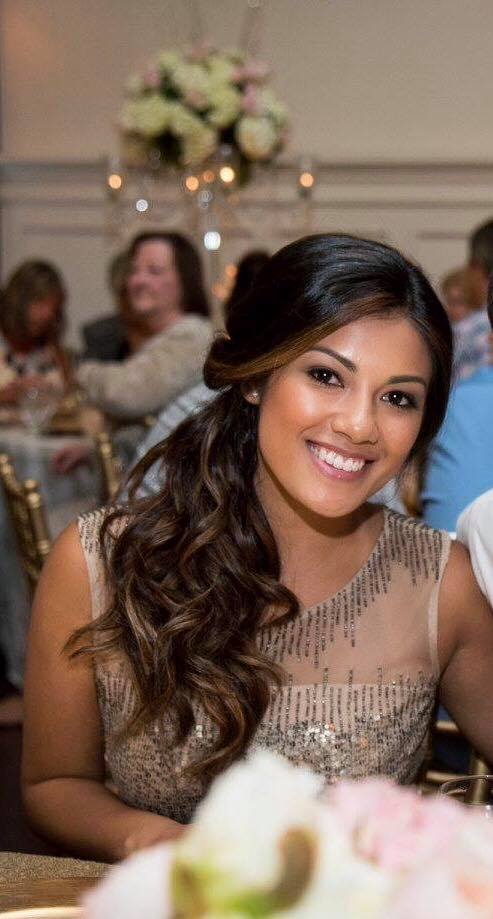
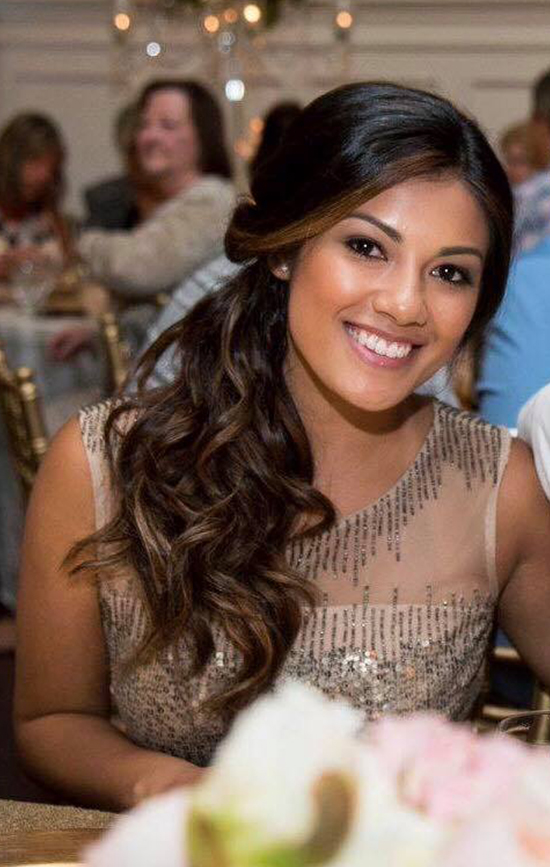
update style

diff --git a/partials/theparty.html b/partials/theparty.html
@@ -6,7 +6,7 @@
 
     <div class="row wedding-party">
       <div class="col-sm-6 col-xs-6 feature col-md-3">
-        <img alt="Photo" src="img/tall2.jpg">
+        <img alt="Photo" src="img/desi.jpg">
         <h6>Maid of Honor</h6>
         <h6>Desiree Durban</h6>
         <p>
@@ -16,7 +16,7 @@
       </div>
 
       <div class="col-sm-6 col-xs-6 feature col-md-3">
-        <img alt="Photo" src="img/tall2.jpg">
+        <img alt="Photo" src="img/tahlia.jpg">
         <h6>Matron of Honor</h6>
         <h6>TAHLIA NANPEI</h6>
         <p>
@@ -24,13 +24,13 @@
           Relationship Status: Just Married
         </p>
       </div><div class="col-sm-6 col-xs-6 feature col-md-3">
-        <img alt="Photo" src="img/tall2.jpg">
+        <img alt="Photo" src="img/sabrina.jpg">
         <h6>Bridesmaid</h6>
         <h6>SABRINA NGUYEN</h6>
         <p>Relation: Bride's friend since 7th grade<br/>
           Relationship Status: Finally engaged</p>
       </div><div class="col-sm-6 col-xs-6 feature col-md-3">
-        <img alt="Photo" src="img/tall2.jpg">
+        <img alt="Photo" src="img/zoe.jpg">
         <h6>Bridesmaid</h6>
         <h6>ZOE FERNYHOUGH</h6>
         <p>
@@ -44,9 +44,9 @@
 
     <div class="row wedding-party">
       <div class="col-sm-6 col-xs-6 feature col-md-3">
-        <img alt="Photo" src="img/tall1.jpg">
-        <h6>Maid of Honor</h6>
-        <h6>Desiree Durban</h6>
+        <img alt="Photo" src="img/Andrew.jpg">
+        <h6>Best Man</h6>
+        <h6>Andrew Elder</h6>
         <p>
           Relation: Bride's Older Sister<br />
           Relationship Status: TBD
@@ -54,23 +54,23 @@
       </div>
 
       <div class="col-sm-6 col-xs-6 feature col-md-3">
-        <img alt="Photo" src="img/tall1.jpg">
-        <h6>Matron of Honor</h6>
-        <h6>TAHLIA NANPEI</h6>
+        <img alt="Photo" src="img/Max.jpg">
+        <h6>Groomsman</h6>
+        <h6>Max Wisman</h6>
         <p>
           Relation: Bride's friend since 9th grade. Tahlia will say I do just six days before Deanna.<br>
           Relationship Status: Just Married
         </p>
       </div><div class="col-sm-6 col-xs-6 feature col-md-3">
-        <img alt="Photo" src="img/tall1.jpg">
-        <h6>Bridesmaid</h6>
-        <h6>SABRINA NGUYEN</h6>
+        <img alt="Photo" src="img/Robert.jpg">
+        <h6>Groomsman</h6>
+        <h6>Robert Handschin</h6>
         <p>Relation: Bride's friend since 7th grade<br/>
           Relationship Status: Finally engaged</p>
       </div><div class="col-sm-6 col-xs-6 feature col-md-3">
-        <img alt="Photo" src="img/tall1.jpg">
-        <h6>Bridesmaid</h6>
-        <h6>ZOE FERNYHOUGH</h6>
+        <img alt="Photo" src="img/Ameen.jpg">
+        <h6>Groomsman</h6>
+        <h6>Ameen Mainayar</h6>
         <p>
           Relation: Groom's younger sister OR soon-to-be sister-in-law<br />
           Relationship Status: Single & has yellow fever

diff --git a/partials/home.html b/partials/home.html
@@ -78,15 +78,19 @@
         </div>
       </section>
       <!-- Venue -->
-      <section class="details details-5 add-padding-top">
+      <section class="details details-5">
         <div class="container">
           <div class="row schedule">
             <img id='top-leaf' src="img/TOP-LEFT-LEAF.png" alt="">
             <div class="col-sm-12">
               <div class="text-centr">
                 <h2>Ceremony &amp; Reception</h2>
-                <p><b>Salty's on Alki Beach</b><br>Friday, August 4th<br>6:00PM-12:00AM<br>Attire: Summertime Fly<br>
-                  <a href="https://www.google.com/maps/dir//1936+Harbor+Ave+SW,+Seattle,+WA+98126/@47.5865257,-122.4464596,12z/data=!4m8!4m7!1m0!1m5!1m1!1s0x5490406d03944fbb:0x1297bfe1e5f83ec7!2m2!1d-122.3764203!2d47.586547" target="_blank">1936 Harbor Ave SW<br>Seattle, WA 98126</a> <br></p>
+                <p><b>Salty's on Alki Beach</b>
+                <br>Friday, August 4th 2017
+                <br>6:00PM-12:00AM<br>
+                <a href="https://www.google.com/maps/dir//1936+Harbor+Ave+SW,+Seattle,+WA+98126/@47.5865257,-122.4464596,12z/data=!4m8!4m7!1m0!1m5!1m1!1s0x5490406d03944fbb:0x1297bfe1e5f83ec7!2m2!1d-122.3764203!2d47.586547" target="_blank">1936 Harbor Ave SW<br>Seattle, WA 98126</a> <br></p>
+
+                <b>Attire</b><br> Summertime Fly<br>
               </div>
             </div>
             <img id='bottom-leaf' src="img/BOTTOM-RIGHT-LEAF.png" alt="">

diff --git a/index.html b/index.html
@@ -27,7 +27,7 @@
 					<li><a class="inner-link" href="#/">Home</a></li>
           <li><a class="inner-link" href="#couple">The Couple</a></li>
           <li><a class="inner-link" href="#theparty">The Party</a></li>
-          <li><a class="inner-link" href="#lodging">Lodging & Travel</a></li>
+          <li><a class="inner-link" href="#lodging">Travel & Lodging</a></li>
           <li><a class="inner-link" href="#registry">Registry</a></li>
           <li><a class="inner-link" href="#rsvp">RSVP</a></li>
           <!-- <li class='gallery-links'><a ng-click="clickGallery()">Gallery</a></li> -->

diff --git a/css/main.css b/css/main.css
@@ -1595,7 +1595,8 @@ footer {
   .timeline .timeline-container {
     text-align: center; }
   .timeline .clearfix {
-    clear: both; }
+    clear: both;
+    margin-bottom: 80px; }
 
 @media (max-width: 767px) {
   .travel-wrapper img {
@@ -1606,3 +1607,7 @@ footer {
   max-width: 95%;
   margin-top: 20px;
   margin-bottom: 10px; }
+
+.proposal img {
+  margin-top: 20px;
+  margin-bottom: 20px; }

diff --git a/partials/couple.html b/partials/couple.html
@@ -26,7 +26,8 @@
       </div>
     </div>
     <div class="row">
-      <div class="col-md-8 col-md-offset-2 col-sm-10 col-sm-offset-1 text-center">
+      <div class="col-md-8 col-md-offset-2 col-sm-10 col-sm-offset-1 text-center proposal">
+        <img alt="Photo" src="img/proposal.jpg">
         <h2>The Proposal</h2>
         <!-- <h6>A little about how we fell in love</h6> -->
       </div>

diff --git a/partials/rsvp.html b/partials/rsvp.html
@@ -21,7 +21,7 @@
       <div class="col-sm-12 text-center">
         <h1>Say you'll be there</h1>
         <p>
-          Please let us know if you can make it by<br> August 4th at the latest!
+          Please let us know if you can make it by<br> May 1st at the latest!
         </p>
       </div>
     </div>

diff --git a/scss/pages/_page-home.scss b/scss/pages/_page-home.scss
@@ -1982,6 +1982,7 @@ footer {
   }
   .clearfix {
     clear: both;
+		margin-bottom: 80px;
   }
 }
 
@@ -2002,5 +2003,13 @@ footer {
 		max-width: 95%;
 		margin-top: 20px;
 		margin-bottom: 10px;
+	}
+}
+
+//couple
+.proposal {
+	img {
+		margin-top: 20px;
+		margin-bottom: 20px;
 	}
 }
